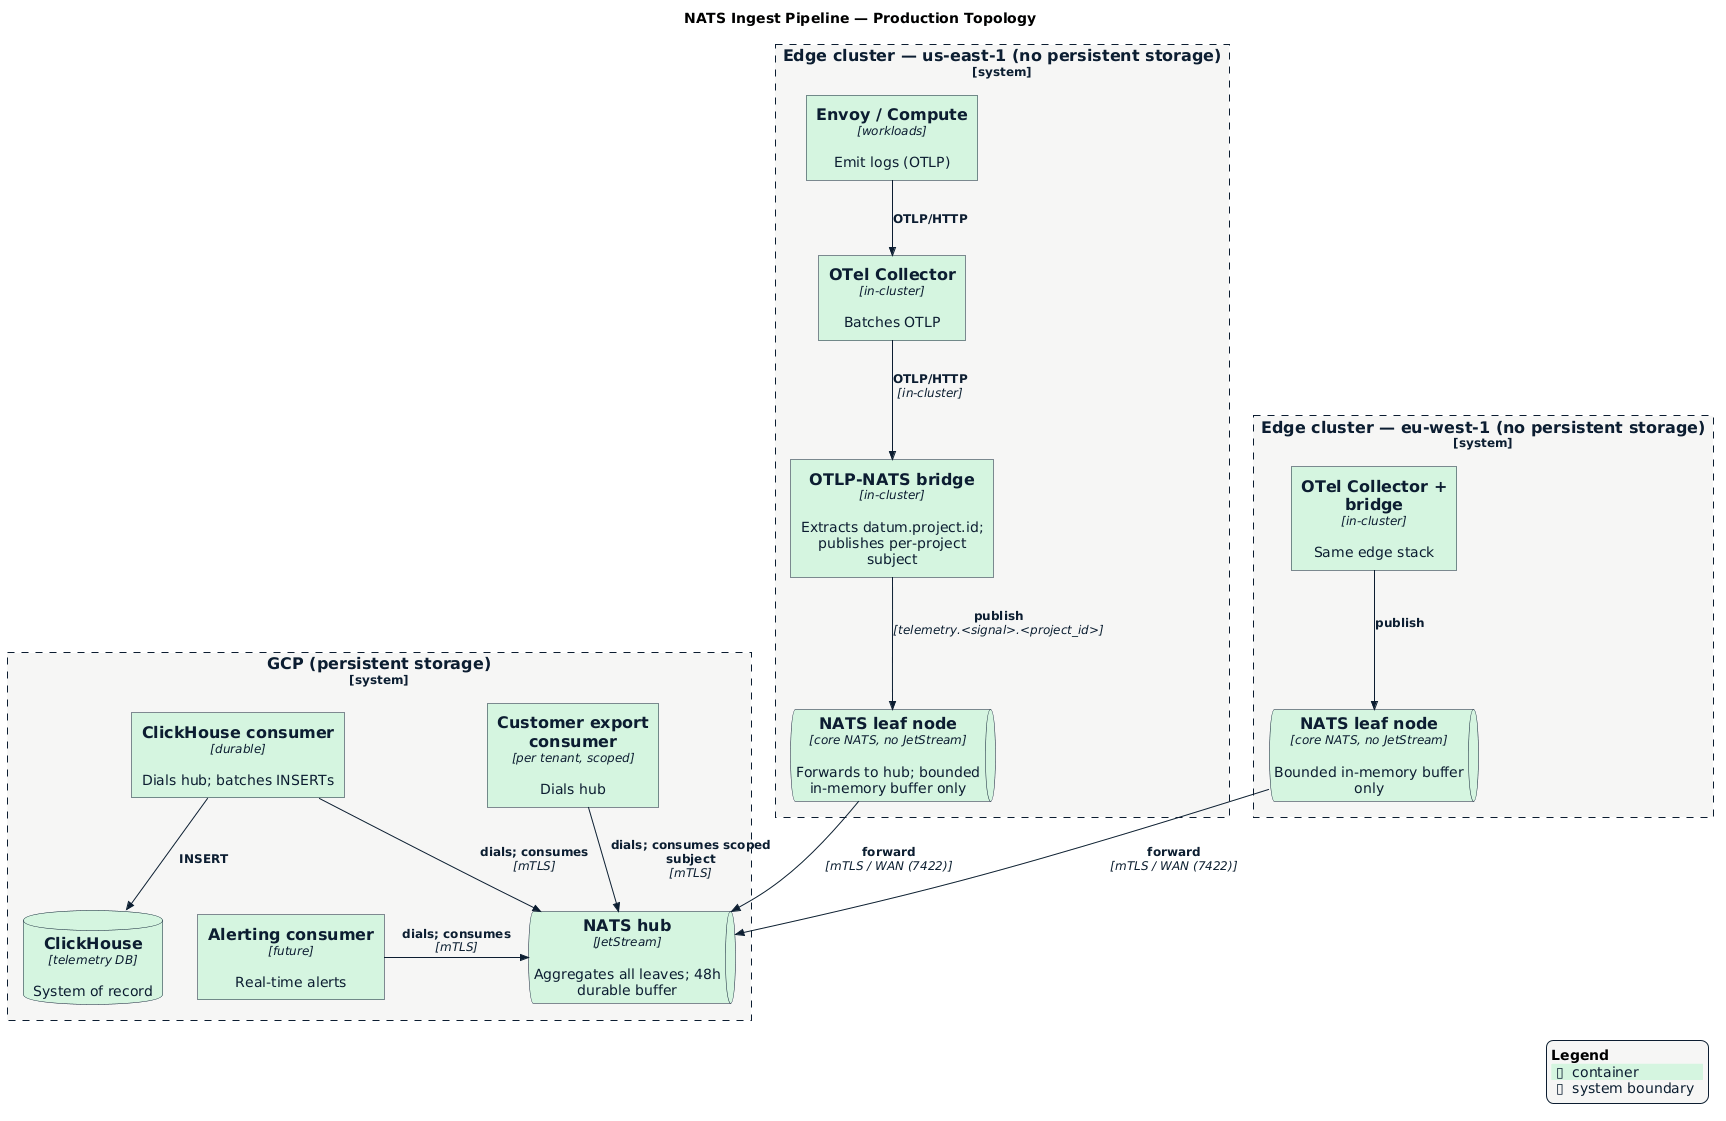
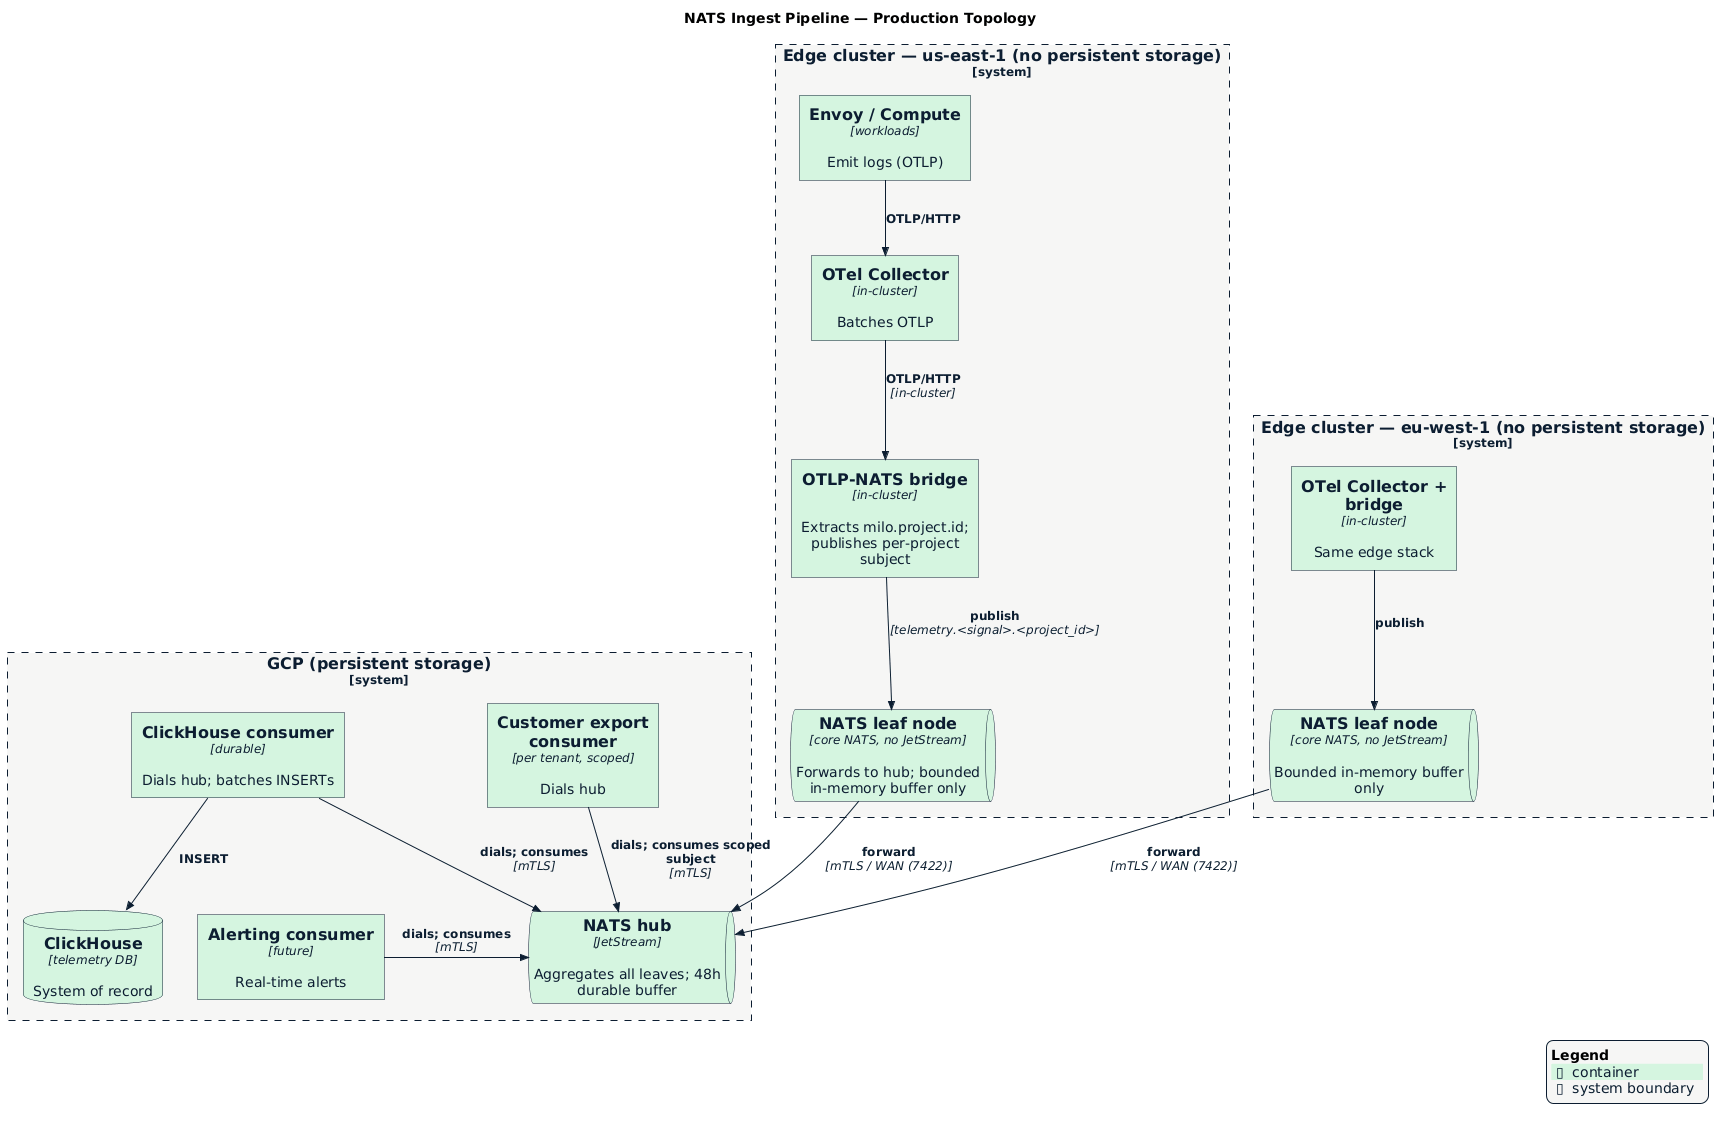
docs(telemetry): fix stale datum.project.id in topology diagram; clarify drop reporting
- topology.puml: rename datum.project.id to milo.project.id in bridge description
- Regenerate topology.png
- operations: replace "silently dropping" with accurate description — bridge
  returns HTTP 200 partial success reporting the drop count; not truly silent

Changed region(s): [[0.4606, 0.4059, 0.6141, 0.562], [0.4606, 0.1873, 0.5834, 0.3747], [0.4606, 0.0937, 0.5834, 0.1561]]

diff --git a/enhancements/telemetry/operations/README.md b/enhancements/telemetry/operations/README.md
@@ -30,13 +30,14 @@ to alert on, what it means, and the initial investigation steps.
 counter (threshold TBD at implementation; baseline from staging).
 
 **What it means:** The OTLP-NATS bridge is receiving log records or metric
-data points without a `milo.project.id` resource attribute and silently
-dropping them. The OTel Collector is not retrying (the bridge returns HTTP 200
-with a partial success body), so these records are gone. A sustained elevated
+data points without a `milo.project.id` resource attribute and dropping them.
+The bridge returns HTTP 200 with a partial success body reporting the drop
+count; the OTel Collector does not retry on partial success, so these records
+are gone. A sustained elevated
 rate indicates a misconfigured or newly onboarded service that is not emitting
 the required resource attribute.
 
-**Impact:** Tenant or platform telemetry is silently lost. The affected
+**Impact:** Tenant or platform telemetry is lost. The affected
 workload's logs will not appear in `datumctl logs` or Grafana; dropped metric
 data points will create gaps in dashboards and rollup tables.
 